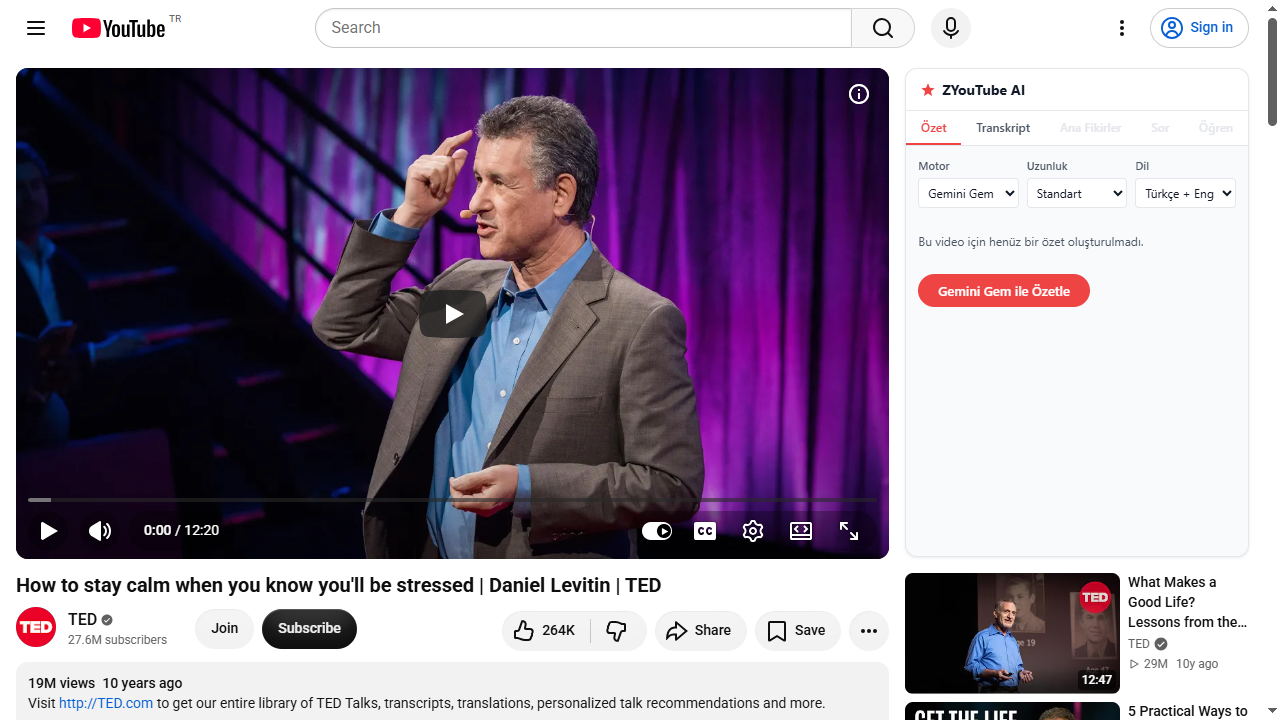
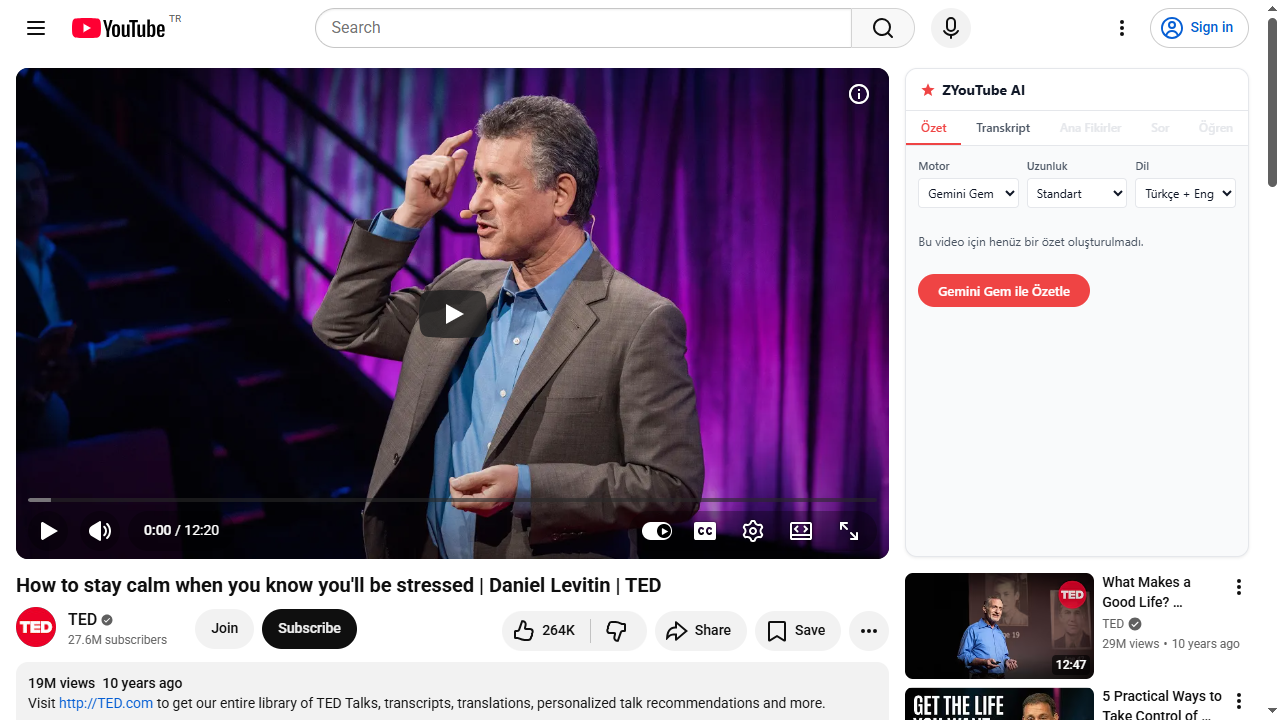
feat(settings): remove use existing gemini tab option to enforce script freshness

diff --git a/src/popup/index.tsx b/src/popup/index.tsx
@@ -264,7 +264,7 @@ const Popup = () => {
 
             <div style={sectionTitle}>Çalışma Seçenekleri</div>
             <div style={{ background: 'var(--zy-card-bg, #fff)', borderRadius: '8px', border: '1px solid #e5e7eb', padding: '12px' }}>
-              <Toggle label="Mevcut Gemini sekmesini kullan" checked={gemSettings.useExistingTab} onChange={v => saveGem({ ...gemSettings, useExistingTab: v })} />
+              <div style={{ height: '8px' }}></div>
               <Toggle label="Arka planda açmayı dene" checked={gemSettings.tryBackgroundTab} onChange={v => saveGem({ ...gemSettings, tryBackgroundTab: v })} />
               <Toggle label="Başarısızsa görünür sekmede aç" checked={gemSettings.fallbackToVisibleTab} onChange={v => saveGem({ ...gemSettings, fallbackToVisibleTab: v })} />
               <Toggle label="İşlem bitince otomatik kapat" checked={gemSettings.autoCloseTab} onChange={v => saveGem({ ...gemSettings, autoCloseTab: v })} />

diff --git a/src/gem/tab-manager.ts b/src/gem/tab-manager.ts
@@ -44,17 +44,6 @@ export class GemTabManager {
    * Yeni Gemini sekmesi aç veya mevcut olanı kullan.
    */
   static async openGemTab(gemUrl: string, settings: GemSettings): Promise<{ tabId: number; isNew: boolean }> {
-    // Mevcut sekmeyi kullanmayı dene
-    if (settings.useExistingTab) {
-      const existing = await this.findMatchingGemTab(gemUrl);
-      if (existing) {
-        // Aynı Gem URL ise güncelleme gerekmiyor, sadece aktifleştir
-        if (!settings.tryBackgroundTab) {
-          await chrome.tabs.update(existing.tabId, { active: true });
-        }
-        return { tabId: existing.tabId, isNew: false };
-      }
-    }
 
     // Yeni sekme aç
     const tab = await chrome.tabs.create({

diff --git a/src/gem/types.ts b/src/gem/types.ts
@@ -8,7 +8,6 @@ export type SummaryEngine = 'gemini-gem' | 'openai-compatible' | 'chrome-local';
 
 export interface GemSettings {
   gemUrl: string;
-  useExistingTab: boolean;
   tryBackgroundTab: boolean;
   fallbackToVisibleTab: boolean;
   autoCloseTab: boolean;
@@ -19,7 +18,6 @@ export interface GemSettings {
 
 export const DEFAULT_GEM_SETTINGS: GemSettings = {
   gemUrl: '',
-  useExistingTab: true,
   tryBackgroundTab: true,
   fallbackToVisibleTab: true,
   autoCloseTab: false,

diff --git a/docs/evidence/live-transcript/live-test-results-cdp.md b/docs/evidence/live-transcript/live-test-results-cdp.md
@@ -1,13 +1,13 @@
 # Live YouTube Transcript Test Results (Real Chrome via CDP)
 
-Date: 2026-07-26T10:21:49.931Z
-Git SHA: 126661112f9a1eb8c4277b01439673d81bc6dc99
+Date: 2026-07-26T10:40:31.439Z
+Git SHA: 97438f10c887fe92bc07989474c47272343b1891
 CDP: http://127.0.0.1:9222
 
-## Turkish content (8jPQjjsBbIc)
+## Gangnam Style (auto captions) (9bZkp7q19f0)
 
 - **Title:** 
-      How to stay calm when you know you'll be stressed | Daniel Levitin | TED
+      PSY - GANGNAM STYLE(강남스타일) M/V
     
 - **Segment count:** 0
 - **First 100 chars:** ``
